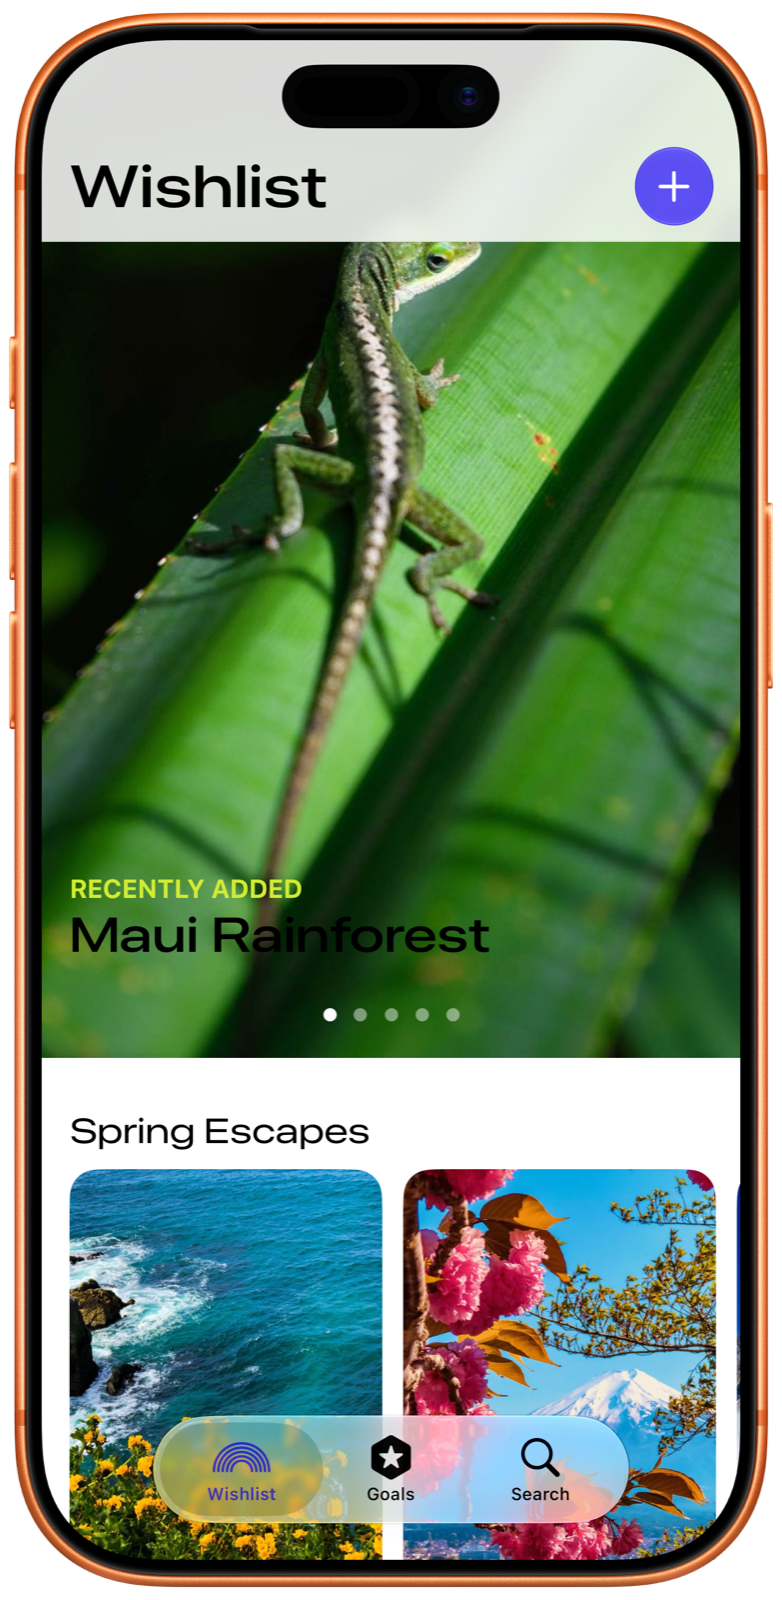
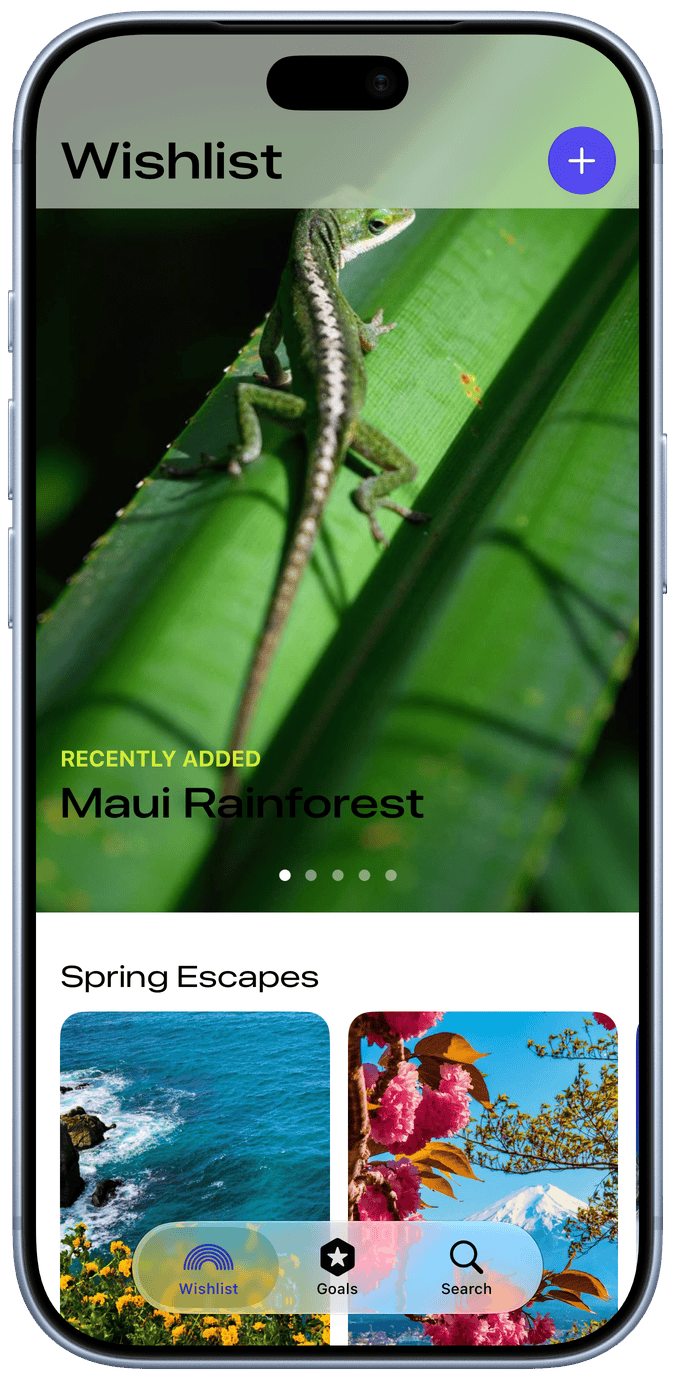
example.png 換成 iPhone 18 Pro Glacier 外框並壓縮
縮到 675×1380（README 以 width=320 顯示，2× retina 已足夠）後用
pngquant 量化，4.1 MB → 283 KB。README 的裝置名稱一併更新。

diff --git a/README.md b/README.md
@@ -4,7 +4,7 @@ One keystroke to wrap your Xcode Preview screenshot in an iPhone bezel and copy 
 
 [English](#english) | [繁體中文](#繁體中文)
 
-<img src="example.png" width="320" alt="Example: SwiftUI preview wrapped in an iPhone 17 Pro Cosmic Orange bezel">
+<img src="example.png" width="320" alt="Example: SwiftUI preview wrapped in an iPhone 18 Pro Glacier bezel">
 
 ## English
 
@@ -40,7 +40,7 @@ You only hit this on the MCP fallback path: release builds of Xcode show an appr
 
 Replace `bezel.png` with any device frame image whose screen area is transparent — the tool auto-detects the position and size of the transparent region, no code changes needed.
 
-The bundled `bezel.png` is the **iPhone 17 Pro (Cosmic Orange)** product bezel from [Apple Design Resources](https://developer.apple.com/design/resources/); its screen cutout is exactly 1206×2622, a 1:1 match for preview screenshots. Please follow the Apple Design Resources license terms.
+The bundled `bezel.png` is the **iPhone 18 Pro (Glacier)** product bezel from [Apple Design Resources](https://developer.apple.com/design/resources/); its screen cutout is exactly 1206×2622, a 1:1 match for preview screenshots. Please follow the Apple Design Resources license terms.
 
 ### How it works
 
@@ -92,7 +92,7 @@ The bundled `bezel.png` is the **iPhone 17 Pro (Cosmic Orange)** product bezel f
 
 把 `bezel.png` 換成任何「螢幕區域為透明」的裝置外框圖即可,程式會自動偵測透明區域的位置與大小,不需要改程式碼。
 
-目前附的 `bezel.png` 是 **iPhone 17 Pro(宇宙橙)**,來自 [Apple Design Resources](https://developer.apple.com/design/resources/) 的產品外框素材,螢幕挖洞剛好是 1206×2622,與 preview 截圖 1:1。使用時請遵守 Apple Design Resources 的授權條款。
+目前附的 `bezel.png` 是 **iPhone 18 Pro(冰川藍)**,來自 [Apple Design Resources](https://developer.apple.com/design/resources/) 的產品外框素材,螢幕挖洞剛好是 1206×2622,與 preview 截圖 1:1。使用時請遵守 Apple Design Resources 的授權條款。
 
 ### 運作原理
 
